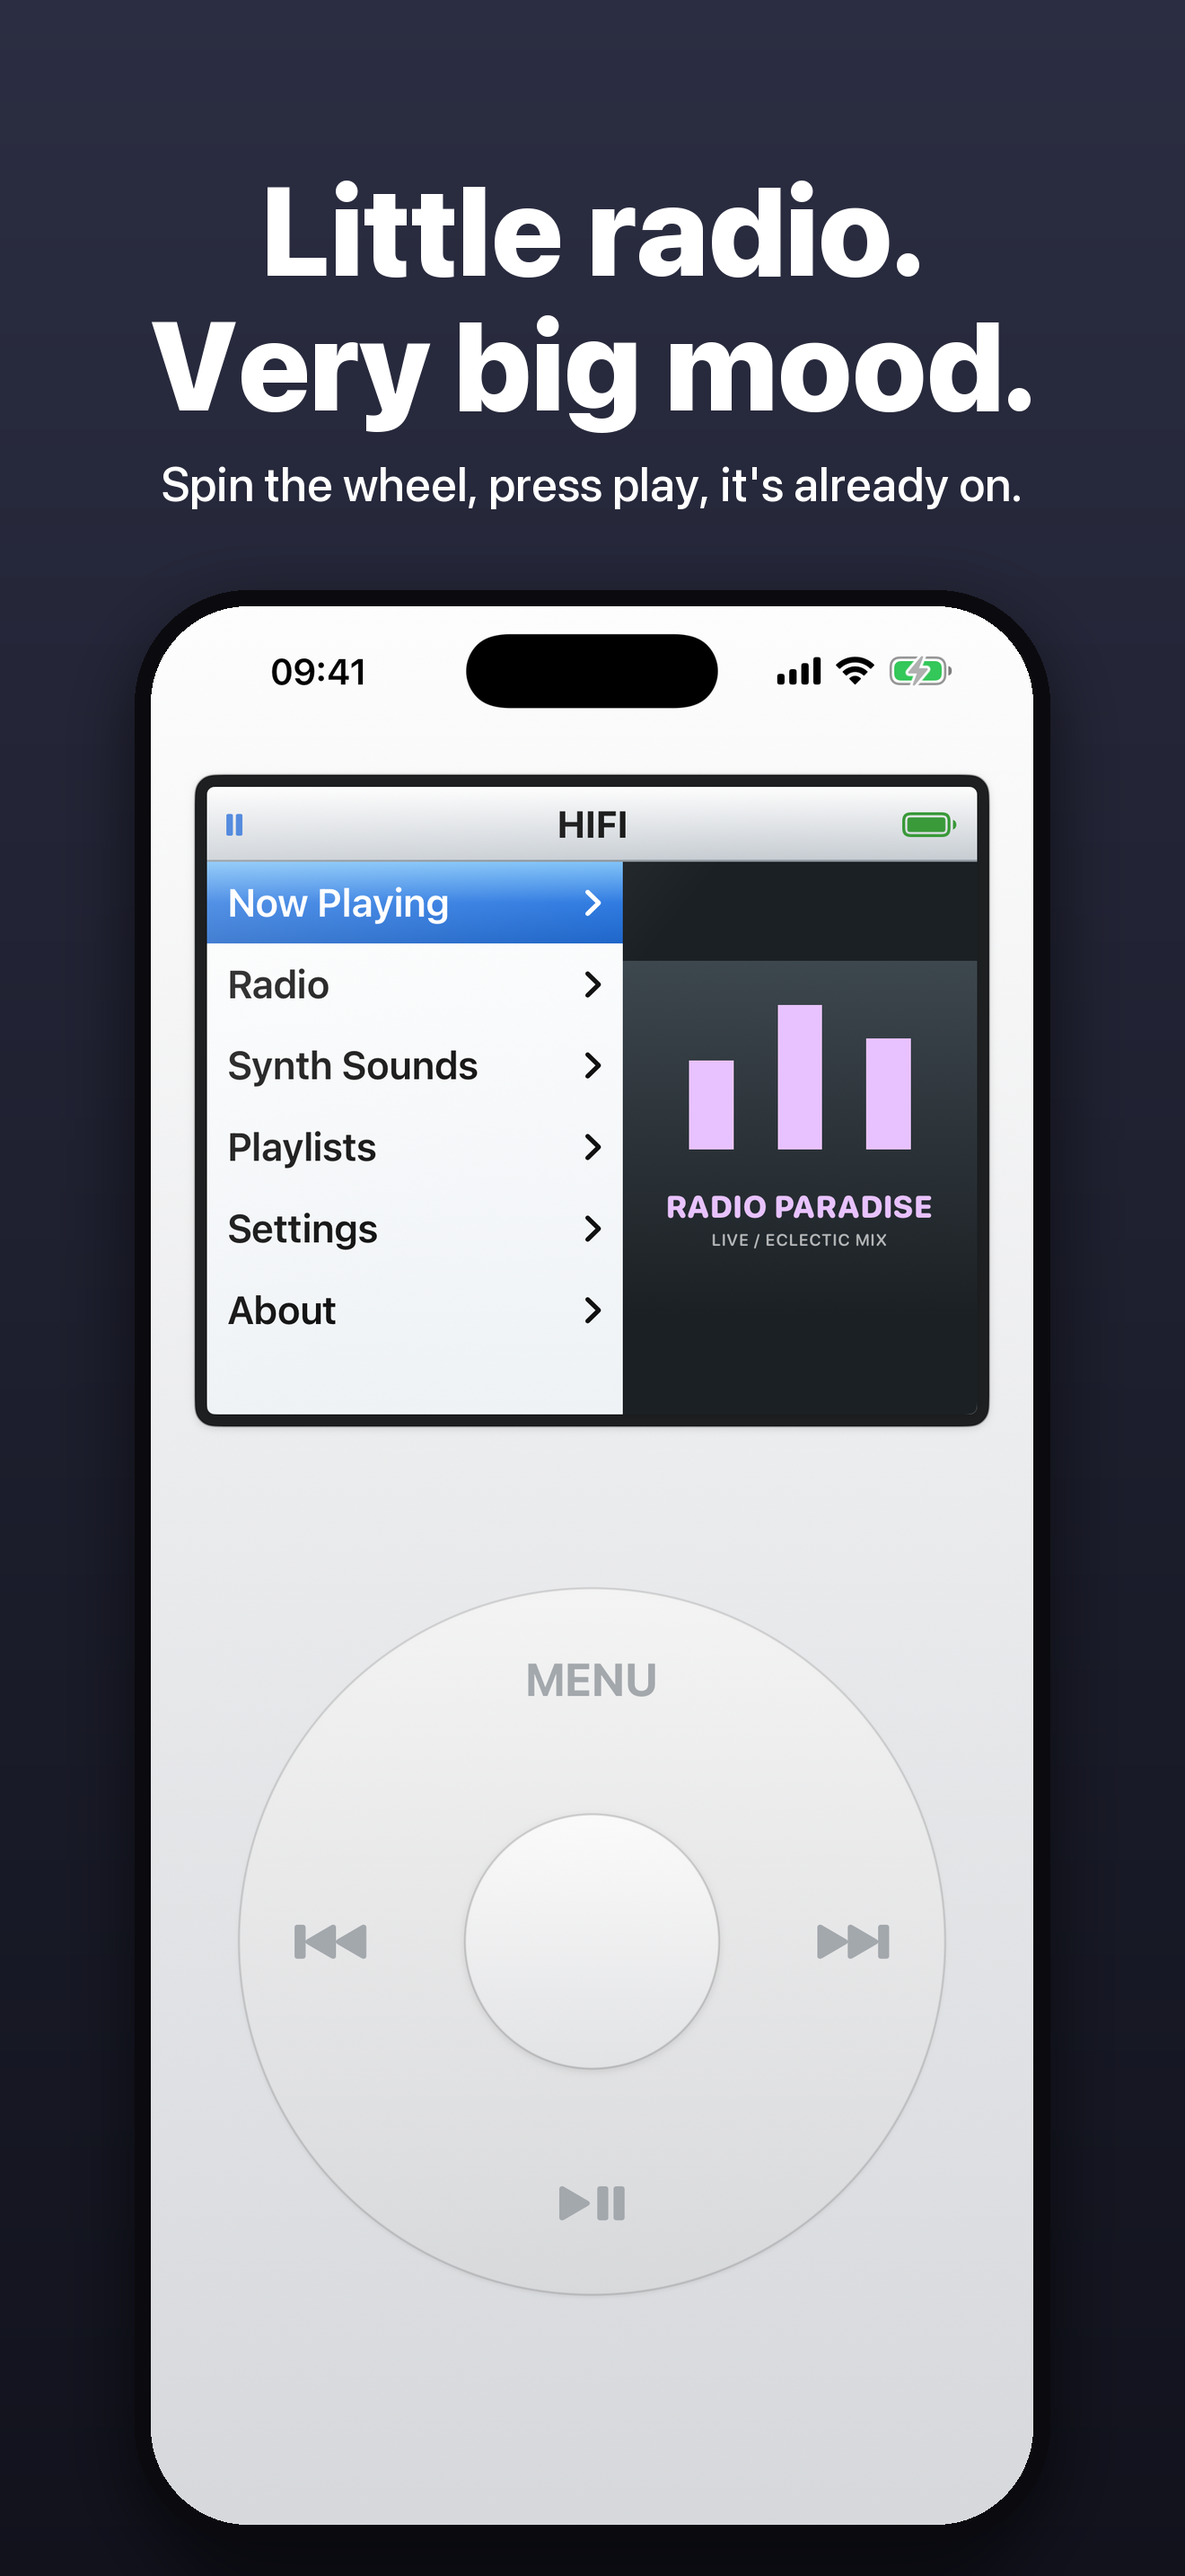
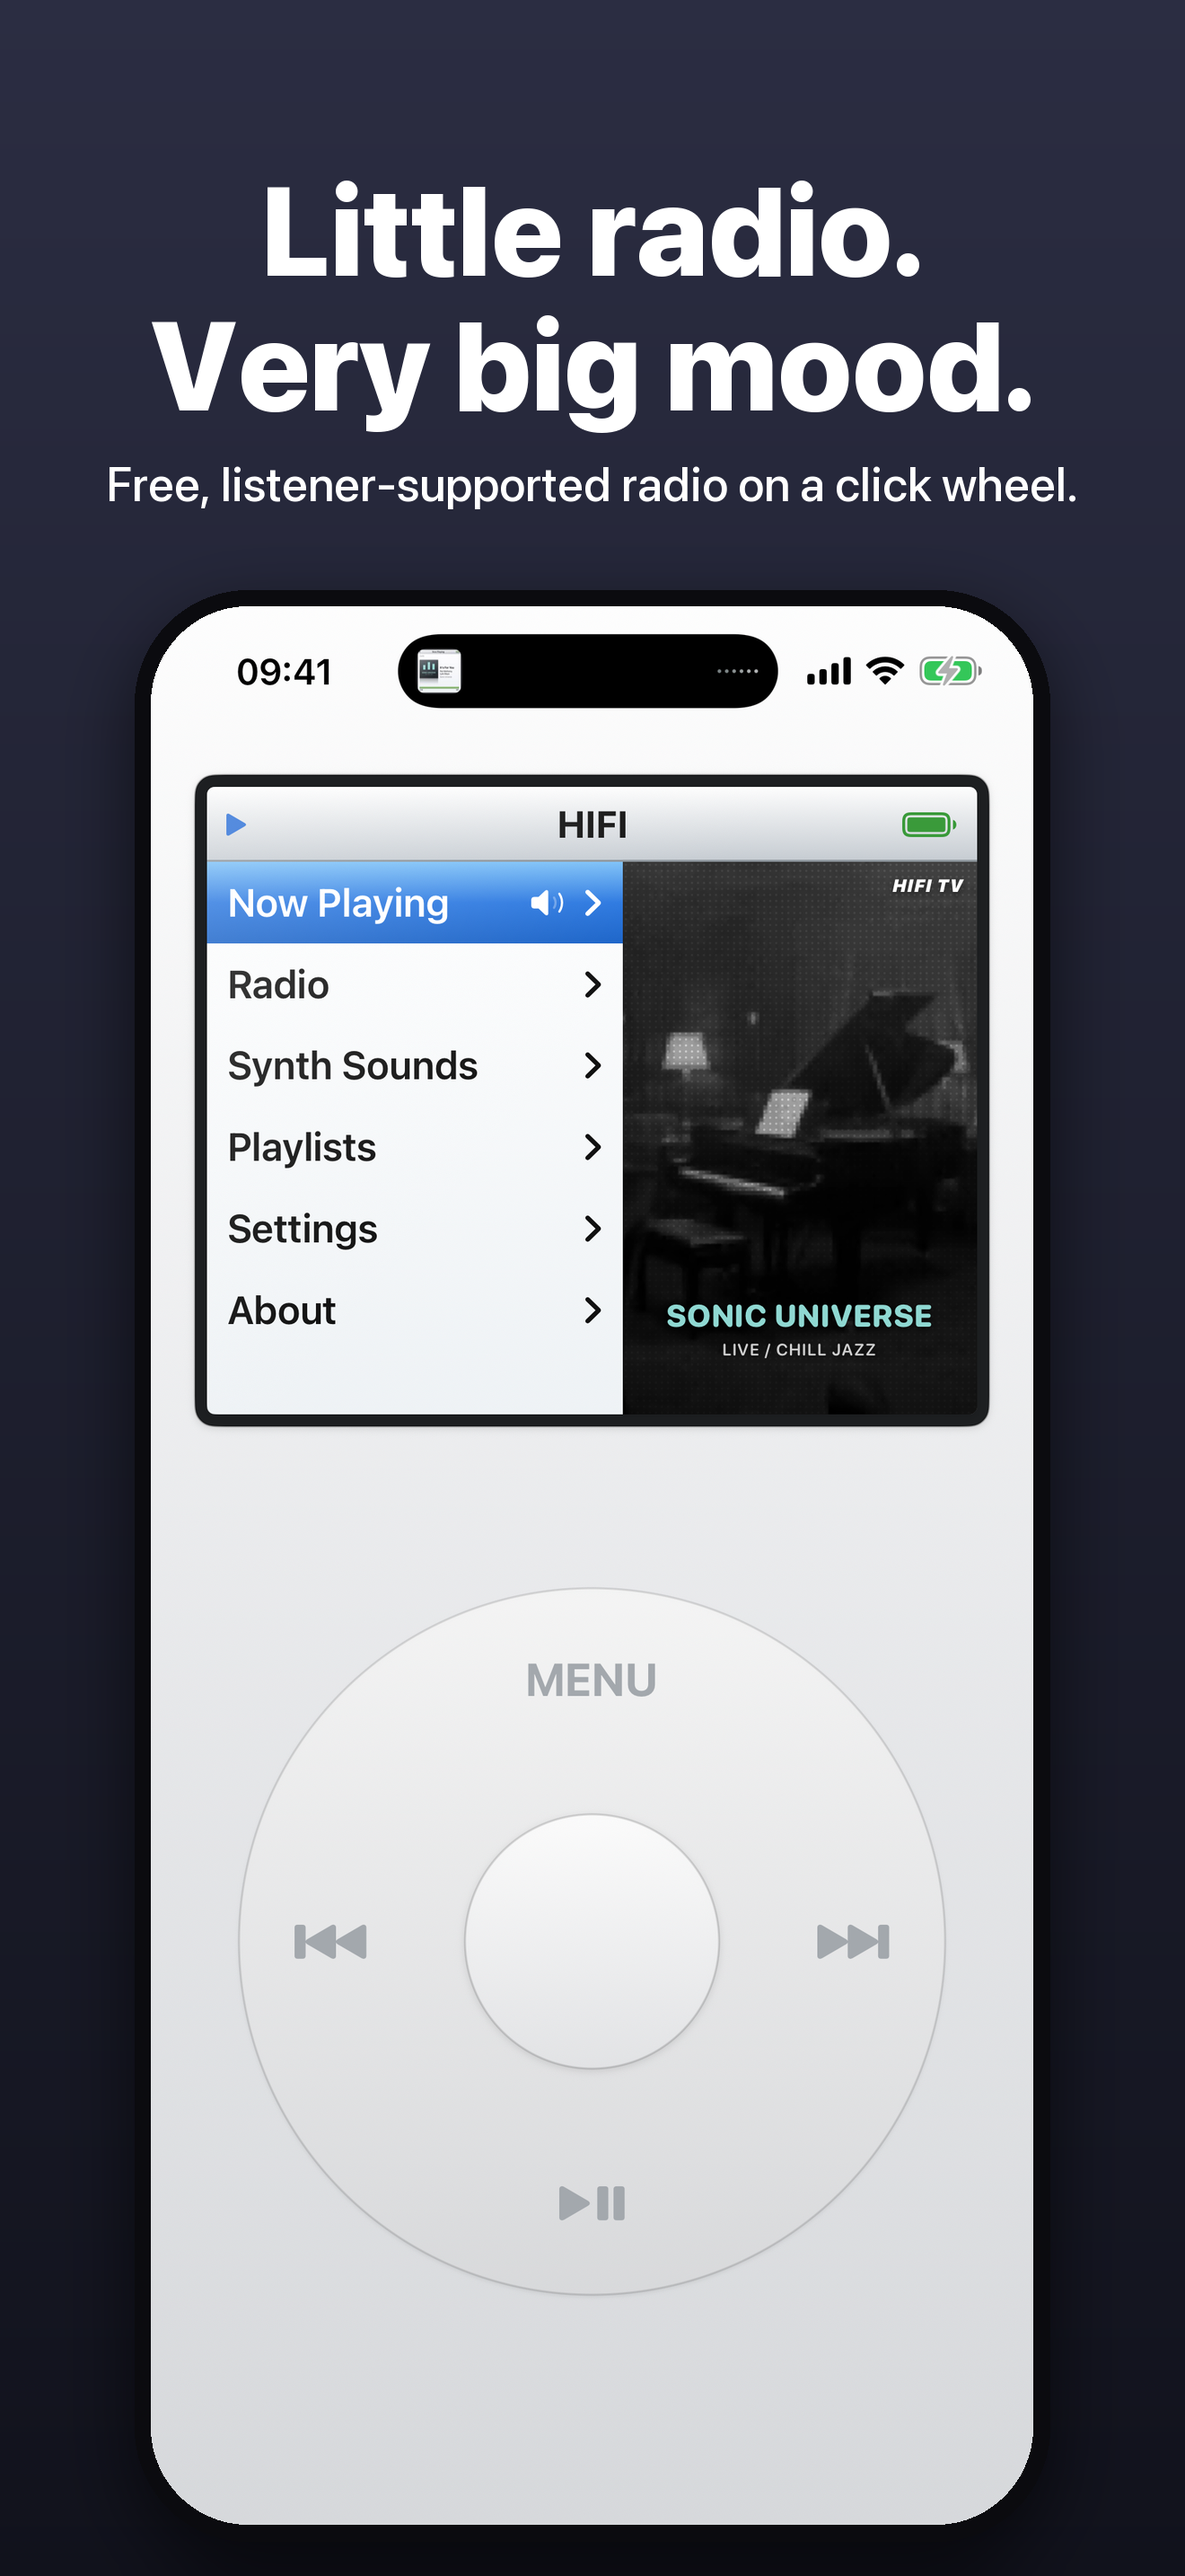
New HIFI TV screenshots and free listener-supported radio copy

diff --git a/landing.html b/landing.html
@@ -18,7 +18,7 @@
 <a class="pill small" href="/player">Open player</a></header>
 <main id="main">
 <section class="hero">
-<div class="hero-copy"><p class="eyebrow">Internet radio from Nate’s Software</p><h1>Little radio.<br>Very big mood.</h1><p class="lead">Spin the wheel, press play. It’s already on.</p><p class="sub">Live stations from Radio Paradise and SomaFM, synth stations made here, all on a white click wheel that fits in your browser.</p>
+<div class="hero-copy"><p class="eyebrow">Free, listener-supported radio from Nate’s Software</p><h1>Little radio.<br>Very big mood.</h1><p class="lead">Spin the wheel, press play. It’s already on.</p><p class="sub">Live stations from Radio Paradise and SomaFM, synth stations made here, all on a white click wheel that fits in your browser.</p>
 <div class="actions"><a class="pill" href="/player">▶ Open the player</a><a class="pill ghost" href="/download" download>Download for Mac</a></div><p class="fine">Free to listen. No account. The Mac app runs on macOS 15 or later, Apple silicon and Intel.</p>
 <div class="counter" id="downloads" hidden><span class="odometer" aria-hidden="true"></span><span class="counter-label">Mac downloads</span></div></div>
 <div class="hero-device"><div class="device-frame"><img src="/shots/player.webp" width="340" height="544" alt="" fetchpriority="high"><iframe data-src="/player?compact=1&amp;page=nowPlaying" title="Try HIFI radio" allow="autoplay"></iframe></div><p class="try"><span class="dot" aria-hidden="true"></span>The real player. Go ahead, spin it.</p></div>
@@ -31,12 +31,12 @@
 <p class="tm-note" role="status" aria-live="polite"></p>
 </form>
 <div class="shots" tabindex="0" aria-label="iPhone screenshots">
-<figure><img src="/shots/1-main.webp" width="560" height="1217" loading="lazy" decoding="async" alt="HIFI main menu on iPhone: Now Playing, Radio, Synth Sounds, Playlists, Settings and About, with the click wheel below"></figure>
-<figure><img src="/shots/2-live.webp" width="560" height="1217" alt="Now Playing a live song on Indie Pop Rocks! with a heart to save it" loading="lazy" decoding="async"></figure>
-<figure><img src="/shots/3-radio.webp" width="560" height="1217" alt="The Radio menu listing live stations and the song each one is playing" loading="lazy" decoding="async"></figure>
-<figure><img src="/shots/4-playlists.webp" width="560" height="1217" alt="Spotify playlists on the click wheel, with Nate’s Software HIFI at the top" loading="lazy" decoding="async"></figure>
-<figure><img src="/shots/5-connect.webp" width="560" height="1217" alt="Connect Spotify: keep the songs you love" loading="lazy" decoding="async"></figure>
-<figure><img src="/shots/6-synth.webp" width="560" height="1217" alt="The Synth Sounds menu with HIFI’s own stations" loading="lazy" decoding="async"></figure>
+<figure><img src="/shots/1-main.webp" width="560" height="1217" alt="HIFI’s main menu on iPhone with the station’s HIFI TV clip beside it"></figure>
+<figure><img src="/shots/2-tv.webp" width="560" height="1217" alt="Now Playing Radio Paradise over its HIFI TV clip, the song on clear glass" loading="lazy" decoding="async"></figure>
+<figure><img src="/shots/3-radio.webp" width="560" height="1217" alt="The Radio menu: live, listener-supported stations and 101X Chillville" loading="lazy" decoding="async"></figure>
+<figure><img src="/shots/4-live.webp" width="560" height="1217" alt="A live song on Indie Pop Rocks! with the heart to save it to Spotify" loading="lazy" decoding="async"></figure>
+<figure><img src="/shots/5-synth.webp" width="560" height="1217" alt="A synth station playing over a speedboat clip on HIFI TV" loading="lazy" decoding="async"></figure>
+<figure><img src="/shots/6-connect.webp" width="560" height="1217" alt="Connect Spotify: free, no ads, no account needed" loading="lazy" decoding="async"></figure>
 </div></section>
 
 <section class="stations" id="stations"><div class="section-head"><h2>Ten stations.<br>One wheel.</h2><p>Five live stations for company, 101X Austin’s Chillville on video, and four rotations of synth music for heads-down work.</p></div>

diff --git a/ios/Sources/IPod.swift b/ios/Sources/IPod.swift
@@ -88,7 +88,7 @@ struct IPodView: View {
         .onAppear {
             focused = true
             #if DEBUG
-            // App Store screenshots: `-screenshot radio|synth|nowPlaying|live|playlists|connect` opens that page.
+            // App Store screenshots: `-screenshot home|tv|synthTV|radio|synth|nowPlaying|live|playlists|connect` opens that page.
             switch UserDefaults.standard.string(forKey: "screenshot") {
             case "radio": stack = [.main, .band("radio")]
             case "synth": stack = [.main, .band("synth")]
@@ -98,6 +98,10 @@ struct IPodView: View {
             case "live":  // a live station with its song and the heart
                 if let live = radio.stations.first(where: { $0.id == "indie-pop-rocks" }) { radio.tune(live) }
                 stack = [.main, .nowPlaying]
+            case "home", "tv", "synthTV":  // HIFI TV: the side panel, a live station, a synth station
+                let id = ["home": "sonic-universe", "tv": "radio-paradise", "synthTV": "shareware-summer"][UserDefaults.standard.string(forKey: "screenshot")!]!
+                if let station = radio.stations.first(where: { $0.id == id }) { radio.tune(station) }
+                stack = UserDefaults.standard.string(forKey: "screenshot") == "home" ? [.main] : [.main, .nowPlaying]
             case "connect": spotify.showConnect = true
             case "setup": spotify.showSetup = true; spotify.showConnect = true
             default: break

diff --git a/ios/scripts/appstore-listing.py b/ios/scripts/appstore-listing.py
@@ -25,10 +25,12 @@ api = ns["api"]
 BUNDLE_ID = "com.natesoftware.hifi"
 SHOTS = HERE.parent / "Screenshots"
 LISTING = {
-    "subtitle": "Little radio, very big mood",
-    "promotionalText": "Heart a song on the radio and it lands in your Spotify Liked Songs. Free, no ads.",
-    "keywords": "internet radio,lofi,synth,chiptune,ambient,focus,jazz,indie,pop,spotify,somafm,retro,click wheel",
-    "description": """HIFI is a little internet radio with a click wheel.
+    "subtitle": "Free listener-supported radio",
+    "promotionalText": "Free, listener-supported radio on a click wheel, now with HIFI TV: every station plays its own old-TV clips. No ads, no account.",
+    "keywords": "free radio,internet radio,listener supported,somafm,lofi,synth,chill,jazz,indie,retro,click wheel",
+    "description": """HIFI is free, listener-supported internet radio on a click wheel.
+
+No subscription, no ads, no account. The live stations are independent, listener-supported radio from Radio Paradise and SomaFM, streamed straight from the stations, and HIFI is free.
 
 Spin the wheel to pick a station, press the center to tune in, and the music is already playing. Our original stations run on a shared clock, so tuning in drops you into the rotation wherever it is right now, like real radio.
 
@@ -38,19 +40,23 @@ SYNTH SOUNDS: four stations of original instrumental music for working, coding a
 • Night Build: dark ambient for after hours
 • Pixel Drift: bright chiptune
 
-RADIO: live internet radio from Radio Paradise, SomaFM and Exclusive Radio, with the song that's playing right now. Including POP GIRL RADIO: big choruses, every era, all day.
+RADIO: live, listener-supported internet radio from Radio Paradise and SomaFM, plus Exclusive Radio, with the song that's playing right now. Including POP GIRL RADIO: big choruses, every era, all day. If you love a station, support it at radioparadise.com or somafm.com/support.
+
+HIFI TV: every station has its own old-TV clips playing behind Now Playing, under the song and station on a sheet of clear glass.
+
+101X CHILLVILLE: Austin's 101X Chillville playlist, 670 chill songs, each played from its official video.
 
 HEART IT: tap the heart next to a song on the radio and it's saved to your Spotify Liked Songs.
 
 PLAYLISTS: connect Spotify and your playlists show up right on the click wheel, with the Nate's Software HIFI playlist up top.
 
-• Skip between songs with the wheel, the lock screen or your headphones
+• Change stations with the wheel, the lock screen or your headphones
 • Song, artist and station on the lock screen, drawn like a classic Now Playing screen
 • Picture in Picture: go home and HIFI shrinks into a tiny clip-on player you can park in a corner
 • Plays in the background
 • No ads, no tracking. Spotify is optional; the radio needs no account
 
-Free, made for fun by Nate's Software. Bring your own headphones.""",
+Free forever, made for fun by Nate's Software. Bring your own headphones.""",
     "supportUrl": "https://github.com/natemcguire/hifi/issues",
     "marketingUrl": "https://hifi.nates-software.com/",
 }
@@ -116,6 +122,7 @@ def main():
     rating = api("GET", f"/v1/appInfos/{info['id']}/ageRatingDeclaration")["data"]
     none = "NONE"
     patch("ageRatingDeclarations", rating["id"], {
+        "socialMedia": False,  # Apple's newer question: HIFI has no social features
         "alcoholTobaccoOrDrugUseOrReferences": none, "contests": none, "gamblingSimulated": none,
         "horrorOrFearThemes": none, "matureOrSuggestiveThemes": none, "medicalOrTreatmentInformation": none,
         "profanityOrCrudeHumor": "INFREQUENT_OR_MILD", "sexualContentGraphicAndNudity": none,
@@ -168,6 +175,9 @@ def main():
               "notes": "No account needed. Press the center button on the click wheel to play. "
                        "Synth Sounds stations are original music we made; the Radio stations are the public "
                        "streams of Radio Paradise, SomaFM and Exclusive Radio. Picture in Picture: start a station, then go home. "
+                       "HIFI TV clips are original AI-generated video made for HIFI. 101X Chillville plays each song's official "
+                       "YouTube upload in YouTube's own embedded player (youtube-nocookie.com), shown on screen and only while "
+                       "the app is open; leaving Now Playing stops it. "
                        "Spotify is optional: the heart next to a live song and the Playlists menu ask the listener to connect "
                        "their own Spotify account (Spotify's own sign-in page, PKCE, no password reaches us). Everything else "
                        "works without it."}

diff --git a/ios/scripts/frame-screenshots.py b/ios/scripts/frame-screenshots.py
@@ -12,12 +12,12 @@ FONT = "/System/Library/Fonts/SFNS.ttf"
 
 # name: (headline, subline, top color, bottom color)
 SLIDES = {
-    "1-main": ("Little radio.\nVery big mood.", "Spin the wheel, press play, it's already on.", "#2b2d42", "#11121c"),
-    "2-live": ("Heart it.\nKeep it.", "Tap the heart and the song lands in your Spotify Liked Songs.", "#e5484d", "#9b1c2a"),
-    "3-radio": ("Real radio,\nlive right now.", "Radio Paradise, SomaFM, Exclusive Radio and POP GIRL RADIO.", "#3a5bd9", "#1d2a73"),
-    "4-playlists": ("Your playlists,\non the wheel.", "With the Nate's Software HIFI playlist up top.", "#1db954", "#0d6b30"),
-    "5-connect": ("Free. No ads.\nNo tracking.", "Spotify is optional. The radio just plays.", "#f2a33a", "#b5601a"),
-    "6-synth": ("Original synth\nstations.", "Made by us, for working, coding and drifting off.", "#7b4fd6", "#3b1f7a"),
+    "1-main": ("Little radio.\nVery big mood.", "Free, listener-supported radio on a click wheel.", "#2b2d42", "#11121c"),
+    "2-tv": ("Radio with\nthe TV on.", "Every station plays its own old-TV clips, under clear glass.", "#3a5bd9", "#1d2a73"),
+    "3-radio": ("Free radio,\nlistener supported.", "Live from Radio Paradise and SomaFM, straight from the stations.", "#e5484d", "#9b1c2a"),
+    "4-live": ("Heart it.\nKeep it.", "Tap the heart and the song lands in your Spotify Liked Songs.", "#1db954", "#0d6b30"),
+    "5-synth": ("Original synth\nstations.", "Made by us, for working, coding and drifting off.", "#7b4fd6", "#3b1f7a"),
+    "6-connect": ("Free. No ads.\nNo account.", "Spotify is optional. The radio just plays.", "#f2a33a", "#b5601a"),
 }
 
 

diff --git a/ios/scripts/tastemakers.py b/ios/scripts/tastemakers.py
@@ -61,7 +61,7 @@ def setup():
         print("group created")
     # What testers read in TestFlight.
     locs = api("GET", f"/v1/apps/{APP}/betaAppLocalizations")["data"]
-    attrs = {"description": "HIFI is internet radio on a white click-wheel iPod: live stations, original synth music, "
+    attrs = {"description": "HIFI is free, listener-supported internet radio on a classic white click wheel: live stations, original synth music, "
                             "101X Chillville and HIFI TV. Taste Makers get every new build first.",
              "feedbackEmail": "nate.mcguire@gmail.com", "marketingUrl": "https://hifi.nates-software.com",
              "privacyPolicyUrl": "https://hifi.nates-software.com/privacy"}
